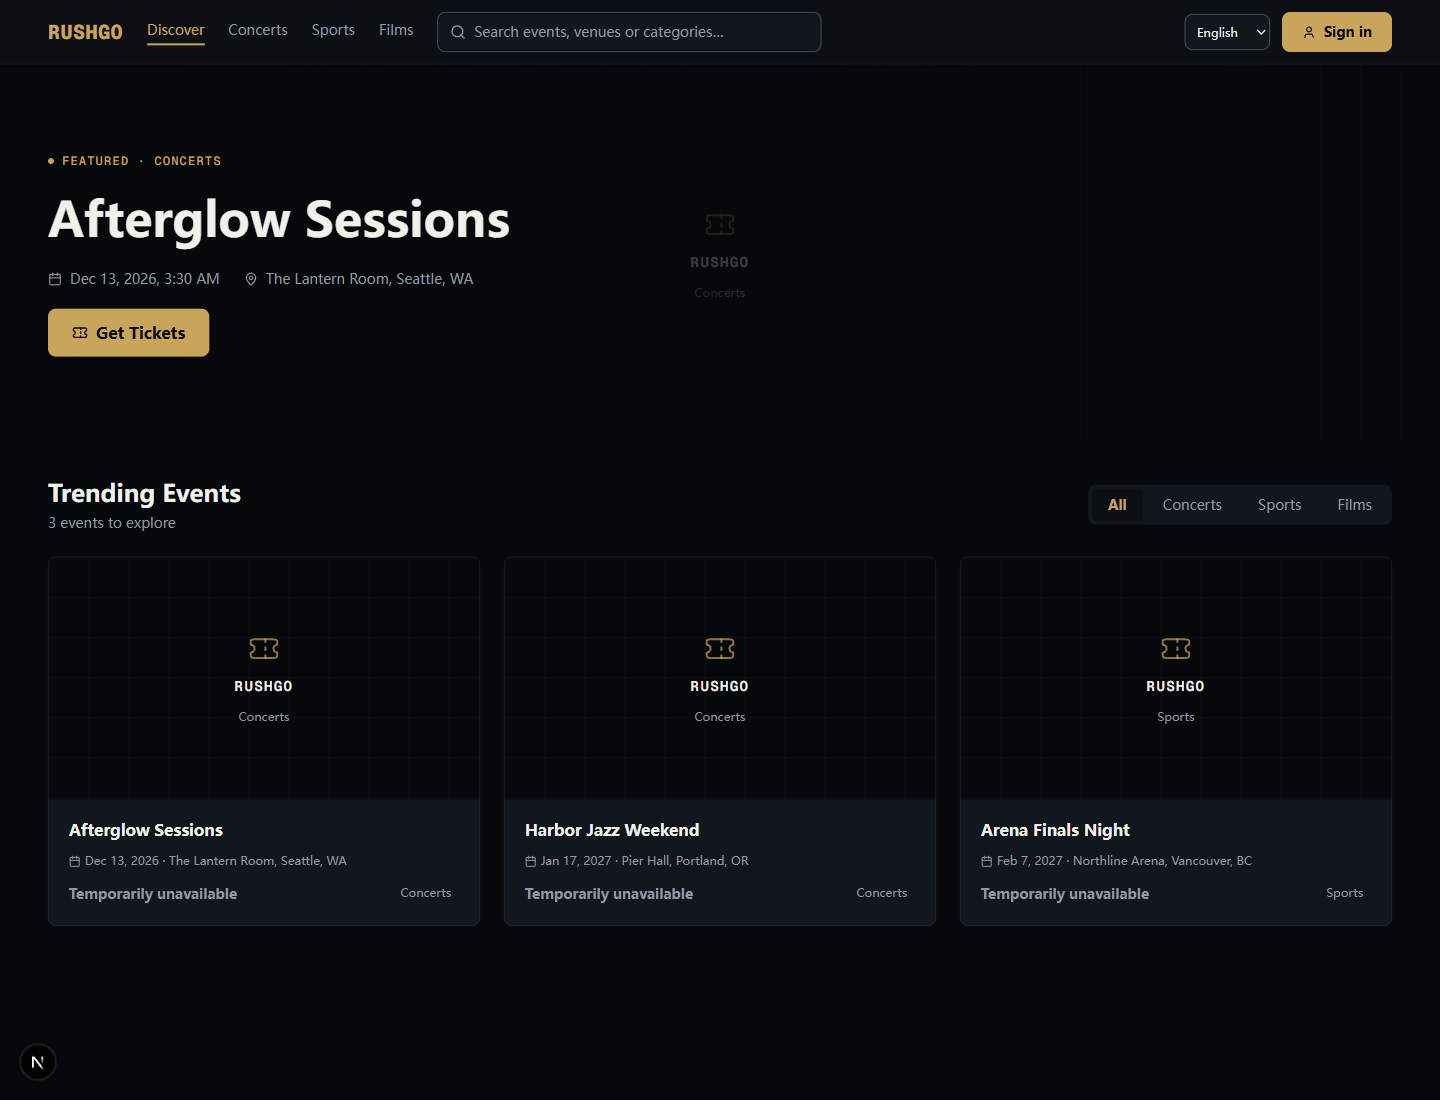
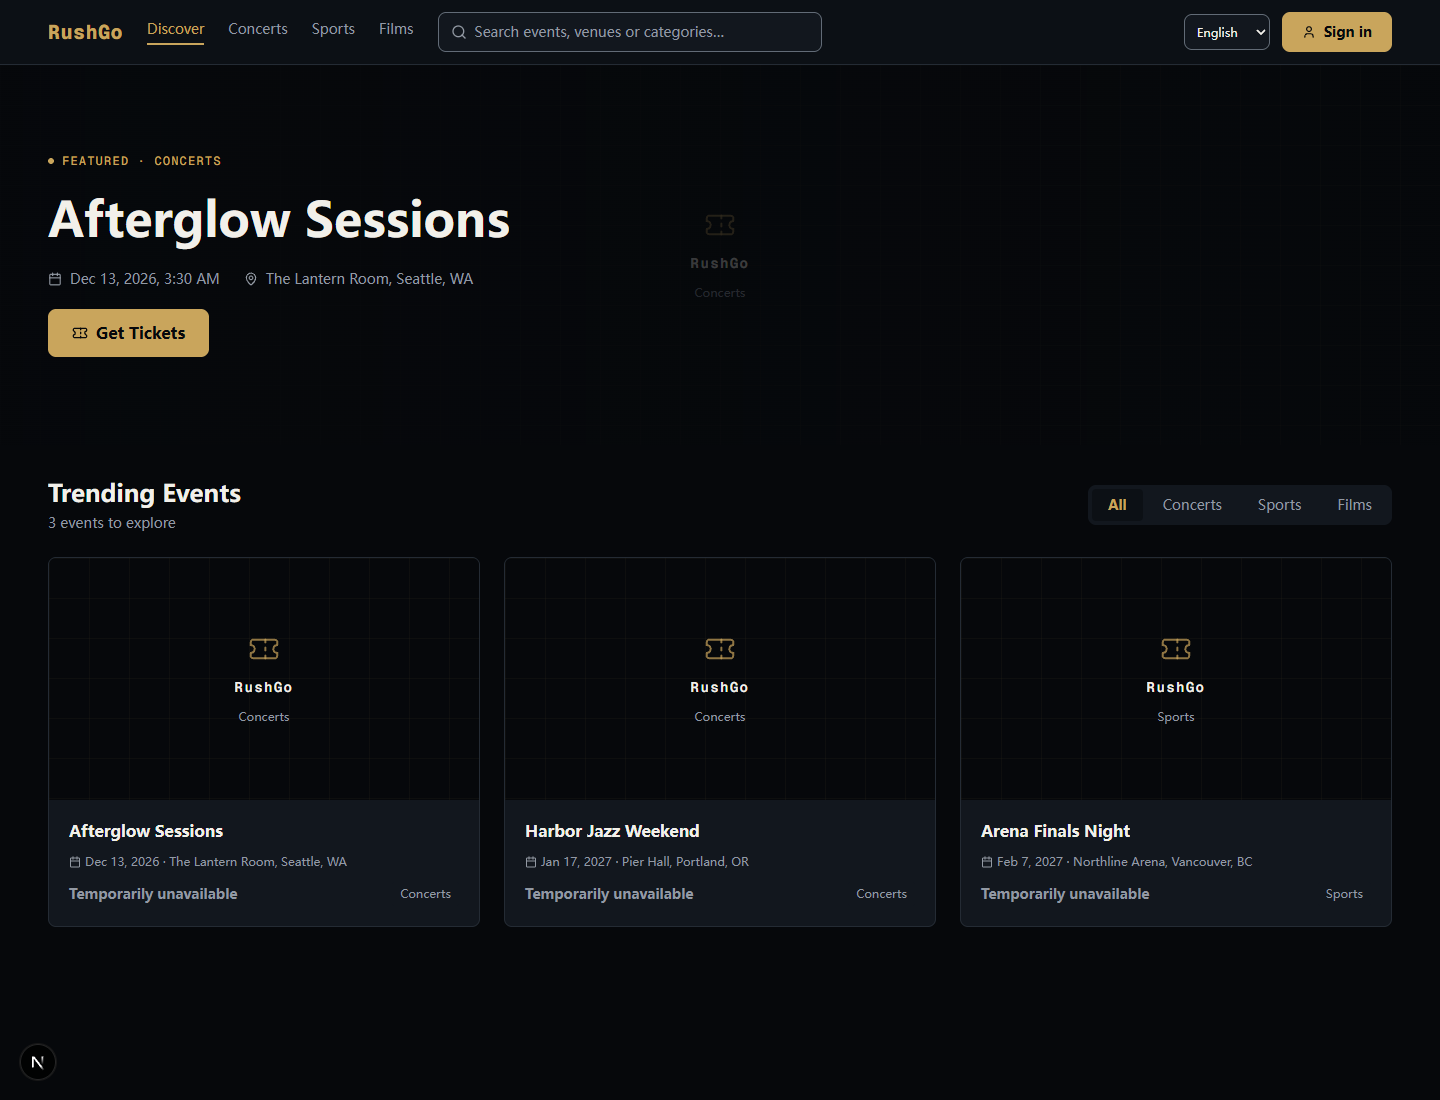
fix: unify RushGo branding and omit placeholder payer name

diff --git a/frontend/lib/i18n/admin.ts b/frontend/lib/i18n/admin.ts
@@ -6,7 +6,7 @@ export const adminEn = {
   "admin.common.cancel": "Cancel",
   "admin.common.close": "Close",
   "admin.common.unavailable": "Unavailable",
-  "admin.common.backToRushGo": "Back to RUSHGO",
+  "admin.common.backToRushGo": "Back to RushGo",
   "admin.layout.internalOpsConsole": "Internal Ops Console",
   "admin.layout.restrictedAccess": "Admin console · restricted access",
   "admin.layout.navigation": "Admin navigation",
@@ -740,7 +740,7 @@ export const adminZh = {
   "admin.common.cancel": "取消",
   "admin.common.close": "关闭",
   "admin.common.unavailable": "不可用",
-  "admin.common.backToRushGo": "返回 RUSHGO",
+  "admin.common.backToRushGo": "返回 RushGo",
   "admin.layout.internalOpsConsole": "内部运营控制台",
   "admin.layout.restrictedAccess": "管理员控制台 · 限制访问",
   "admin.layout.navigation": "管理员导航",

diff --git a/frontend/components/navbar.tsx b/frontend/components/navbar.tsx
@@ -63,7 +63,7 @@ export function Navbar() {
     <nav aria-label={t("customer.navigation.main")} className="flex flex-wrap items-center gap-x-6 gap-y-3 min-h-16 px-5 py-3 md:px-12 bg-card text-foreground border-b border-border w-full shrink-0">
         {logoutError && <p role="status" className="w-full text-sm text-danger-ink">{t("customer.navigation.logoutError")}</p>}
         <Link href="/" className="order-1 text-primary font-extrabold text-xl font-mono tracking-wide">
-          RUSHGO
+          RushGo
         </Link>
         <div className="order-3 xl:order-2 flex w-full sm:w-auto items-center justify-between sm:justify-start gap-4 md:gap-6">
           {discoveryCategories.map((link) => (

diff --git a/frontend/components/event-artwork.tsx b/frontend/components/event-artwork.tsx
@@ -48,7 +48,7 @@ function ArtworkSource({ src, title, category, className = "", compact = false }
           <div aria-hidden="true" className={`flex flex-col items-center ${compact ? "gap-1" : "gap-3"}`}>
             <Ticket size={compact ? 20 : 32} className="text-primary/70" strokeWidth={1.5} />
             <span className={`font-mono font-semibold tracking-widest ${compact ? "text-[10px]" : "text-sm"}`}>
-              {compact ? initials : "RUSHGO"}
+              {compact ? initials : "RushGo"}
             </span>
             {!compact && <span className="text-xs text-muted-on-dark">{categoryLabel}</span>}
           </div>

diff --git a/frontend/app/layout.tsx b/frontend/app/layout.tsx
@@ -22,7 +22,7 @@ const geistMono = localFont({
 
 export const metadata: Metadata = {
   title: commonEn["common.metadata.title"],
-  description: "An event ticketing project with event discovery, seat selection, and order workflows.",
+  description: "Discover events, select seats, and manage ticket orders with RushGo.",
   icons: { icon: "data:," },
 };
 

diff --git a/frontend/app/admin/layout.tsx b/frontend/app/admin/layout.tsx
@@ -88,7 +88,7 @@ export default function AdminLayout({
           </div>
           <div>
             <div className="font-mono font-bold tracking-tight text-[15px]">
-              RUSHGO
+              RushGo
             </div>
             <div className="text-[11px] text-muted">{t("admin.layout.internalOpsConsole")}</div>
           </div>

diff --git a/frontend/components/stripe-payment-form.tsx b/frontend/components/stripe-payment-form.tsx
@@ -86,9 +86,6 @@ function PaymentForm({ clientSecret, amount, onSuccess, onError, disabled }: Str
       result = await stripe.confirmCardPayment(clientSecret, {
         payment_method: {
           card: cardElement,
-          billing_details: {
-            name: "TicketBox Customer",
-          },
         },
       });
     } catch {

diff --git a/PROJECT_STATUS.md b/PROJECT_STATUS.md
@@ -1,12 +1,12 @@
-# 项目状态
+# RushGo 项目状态
 
 公开演示覆盖活动发现页。下面分别列出代码入口、已有的验证记录，以及仍需多服务联机验证的部分。[项目概览](README.md) · [复现演示](DEMO.md)
 
 | 验证层次 | 已有依据 | 范围 |
 | --- | --- | --- |
 | 代码实现 | [Gateway 路由](backend/services/gateway/internal/router/router.go)、[服务目录](backend/services)、[前端页面](frontend/app) | 可沿路由追踪账户、活动、订单、支付、票据、售后、通知与管理查询。 |
-| 单元测试 | 已有验证记录覆盖 User 的服务和 gRPC 逻辑、Event 的预留座位与记账资格判断、Booking 的售卖资格、请求重放和出票资格。本次另运行了[发现页定向测试](frontend/tests/discovery.test.mjs)。 | 单测中的内存仓储、模拟服务和样例数据仅验证相应条件与分支。 |
-| 构建 | [后端说明](backend/README.md)和[前端说明](frontend/README.md)给出构建入口。本次复核由 Next.js 开发服务器实际编译并加载发现页。 | 此次未重跑全量 Go 模块构建或前端生产构建。 |
+| 单元测试 | 已有验证记录覆盖 User 的服务和 gRPC 逻辑、Event 的预留座位与记账资格判断、Booking 的售卖资格、请求重放和出票资格。已运行发现页、活动插图、管理导航、双语文案和结账状态的定向测试，其中结账测试使用模拟 Stripe 客户端。[发现页测试](frontend/tests/discovery.test.mjs) · [结账测试](frontend/tests/checkout-payment-state.test.mjs) | 单测中的内存仓储、模拟服务和样例数据仅验证相应条件与分支。 |
+| 构建 | [后端说明](backend/README.md)和[前端说明](frontend/README.md)给出构建入口。前端生产构建及其中的 TypeScript 检查已通过。 | 此次构建覆盖前端，Go 全量构建未重跑。 |
 | 本地页面 | 浏览器通过 Next.js 读取[样例 API](docs/demo/events-api.mjs)，显示三个活动，搜索和分类均可复现。 | 仅覆盖发现页和只读查询，样例库存为零。 |
 | 完整业务 E2E | 尚未在当前公开版本完成从注册、支付到出票和核销的整链路验收。 | Stripe TEST 回调、退款最终状态、真实邮件送达和多服务恢复均不能从页面演示推断。 |
 | 高级验收 | T23、T24、W28 及 72 窗口可靠性验收已停止推进。历史失败和未执行记录保留在离线归档。 | 已移出本次发布范围，验收仍未完成。 |

diff --git a/README.md b/README.md
@@ -2,7 +2,7 @@
 
 RushGo 是一个基于 Go 和 Next.js 的微服务票务系统。观众可以查询活动、选择座位并查看订单和票据，现场工作人员按活动授权核销票据，管理员维护活动并查询售票和售后记录。系统围绕一个具体问题组织订单流程：当两位观众同时选中一个座位，或支付结果晚于预订期限到达时，谁有权确认订单、占用座位和签发票据？
 
-这是一个独立维护的个人工程实践项目。想先看界面，可以运行下方的本地演示，搜索和筛选三个虚构活动。想了解购票实现，可以从订单流程和对应服务入口读起。[演示指南](DEMO.md) · [项目状态](PROJECT_STATUS.md)
+RushGo 是我独立维护的个人作品集项目。想先看界面，可以运行下方的本地演示，搜索和筛选三个虚构活动。想了解购票实现，可以从订单流程和对应服务入口读起。[演示指南](DEMO.md) · [项目状态](PROJECT_STATUS.md)
 
 ## 功能模块
 

diff --git a/frontend/README.md b/frontend/README.md
@@ -13,4 +13,6 @@ npx tsc --noEmit
 npm run build
 ```
 
-The checkout interface is not proof of a completed purchase. A real purchase requires the backend booking and payment services and is outside the local interface walkthrough.
+## Checkout and billing
+
+The RushGo checkout passes the card element to Stripe. It omits the optional payer name because the form does not collect one. For card statements, the Payment service uses the Stripe account's configured descriptor. The local discovery demo makes no payment requests. [Stripe statement descriptor rules](https://docs.stripe.com/get-started/account/statement-descriptors)

diff --git a/DEMO.md b/DEMO.md
@@ -1,4 +1,4 @@
-# 本地演示 · 活动发现页
+# RushGo 本地演示 · 活动发现页
 
 用两个本地进程即可查看 RushGo 首页，体验活动搜索和分类。Next.js 渲染真实页面，Node.js 样例 API 提供三个虚构活动。演示无需登录、数据库、Docker 或支付密钥。
 
